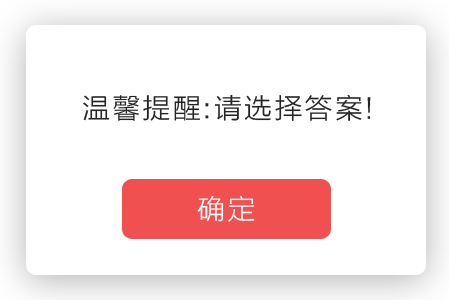
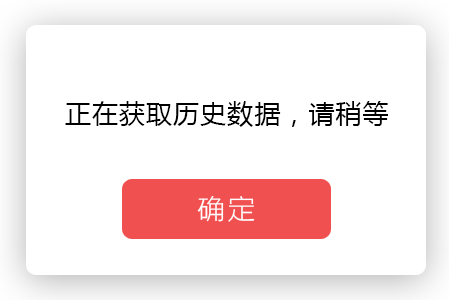
fix watchForm and diagnoseForm

Changed region(s): [[0.1247, 0.3, 0.8731, 0.42]]

diff --git a/im-service/im-service-web/src/main/webapp/diagnoseForm.html b/im-service/im-service-web/src/main/webapp/diagnoseForm.html
@@ -85,6 +85,13 @@
             <div class="qd"></div>
         </div>
     </div>
+
+    <!--提示遮罩层-->
+    <div class="ts_mask2">
+        <div class="tishi2">
+            <div class="qd2"></div>
+        </div>
+    </div>
 </div>
 <script language="javascript" type="text/javascript" src="static/js/jquery-1.7.2.min.js"></script>
 <script>
@@ -250,6 +257,7 @@
                 if(qs_id == 18 && one_click == 1)
                 {
                     one_click++;
+                    $(".ts_mask2").fadeIn(1000);//提示正在提交数据
                     for (var i = 0; i < 18; i++) {
                         score_add += now_score[i];
                     }
@@ -273,8 +281,9 @@
                         success: function (data) {
                             console.log(data);
                             if (data.code == 200) {
-
-                                alert("success");
+                                $(".ts_mask2").fadeOut(1000);
+                                //alert("success");
+                                window.location.href = '../watch-finish.html';
                             }
                             else {
                                 alert("查询失败: " + data.msg);
@@ -341,9 +350,11 @@
             {
                 if (qs_id >1 )
                 {
+                    one_click=1;
                     qs_id--;
                     $('#title_txt').html("("+qs_id+"/18)&nbsp;单选题");
                     $('#content_txt').html(qs_array[qs_id-1]);
+                    document.getElementById("botton_next").innerHTML = "下一题";
                     change_checked_to_one("#checkboxFourInput"+pre_score[qs_id-1]);
                     //$("#checkboxFourInput"+pre_score[qs_id-1]).attr("checked",'true');
                 }

diff --git a/im-service/im-service-web/src/main/webapp/static/css/diagnose_style.css b/im-service/im-service-web/src/main/webapp/static/css/diagnose_style.css
@@ -62,4 +62,9 @@ cursor: pointer; top:3vw; position: absolute;z-index: 1;background:url(/static/i
 .tishi{ width:70%; height:50vw; background:url(/static/image/mxz_ts.png) center no-repeat; float:left; background-size:100% auto; margin:50vw 15%;}
 .qd{ width:50%; height:10vw; margin:30vw 25% 0 25%;}
 
+/*遮罩层2*/
+.ts_mask2{ width:100%; height:100%; background:rgba(0,0,0,0.8); position:fixed; z-index:99; top:0vw; display:none;}
+.tishi2{ width:70%; height:50vw; background:url(/static/image/mxz_ts2.png) center no-repeat; float:left; background-size:100% auto; margin:50vw 15%;}
+.qd2{ width:50%; height:10vw; margin:30vw 25% 0 25%;}
+
 
